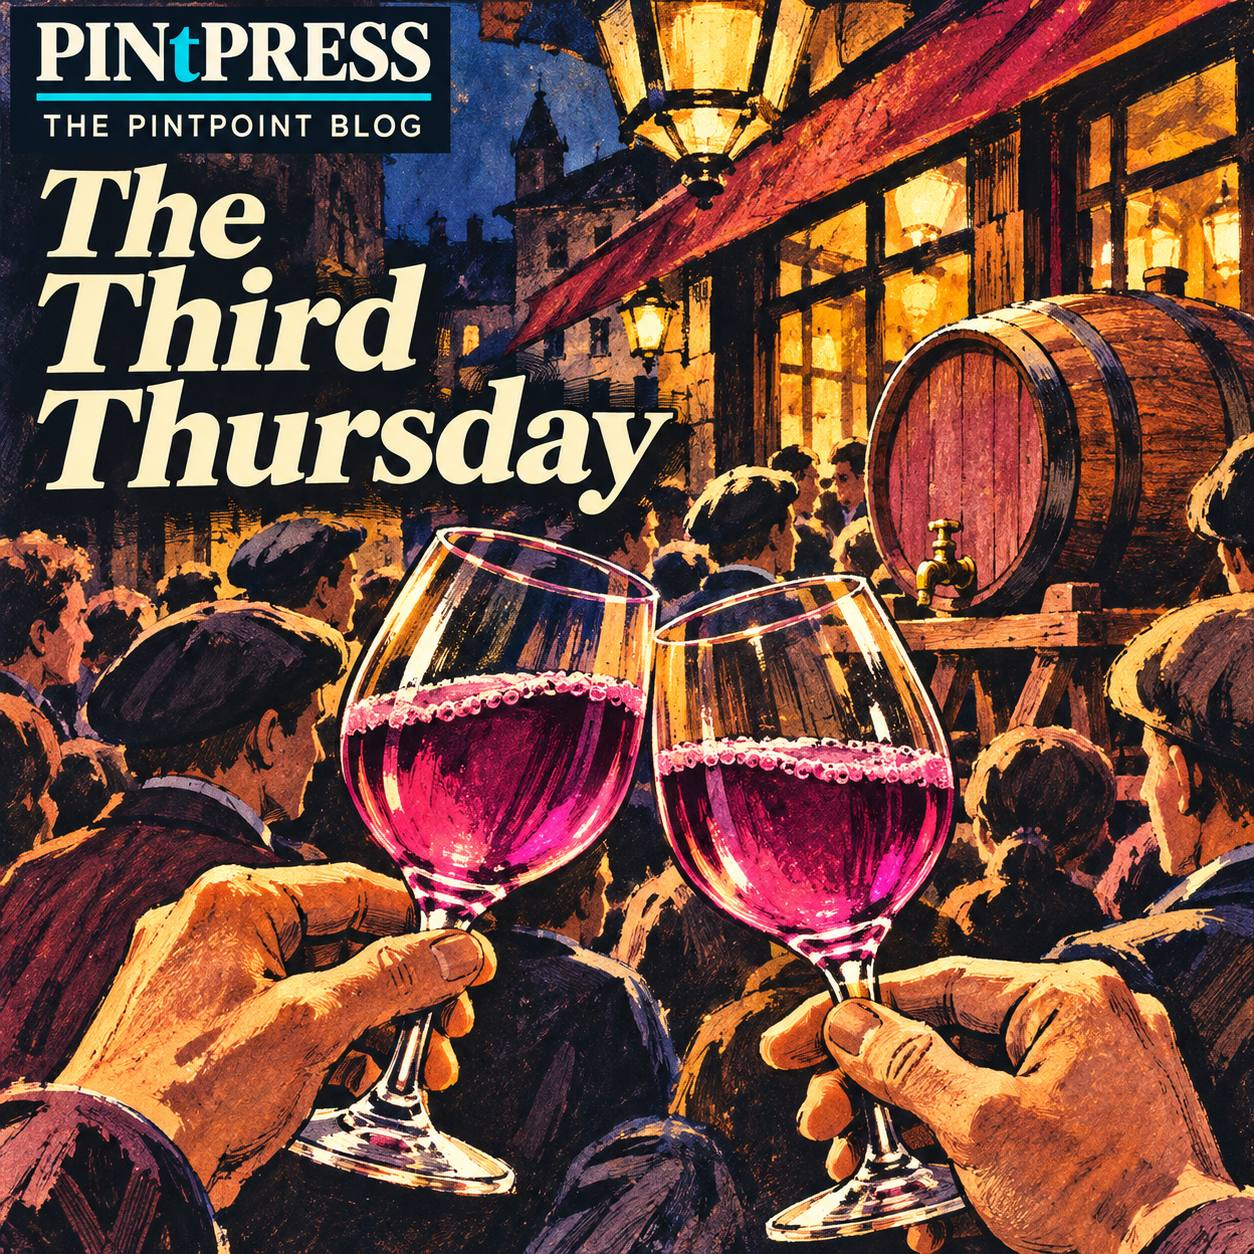
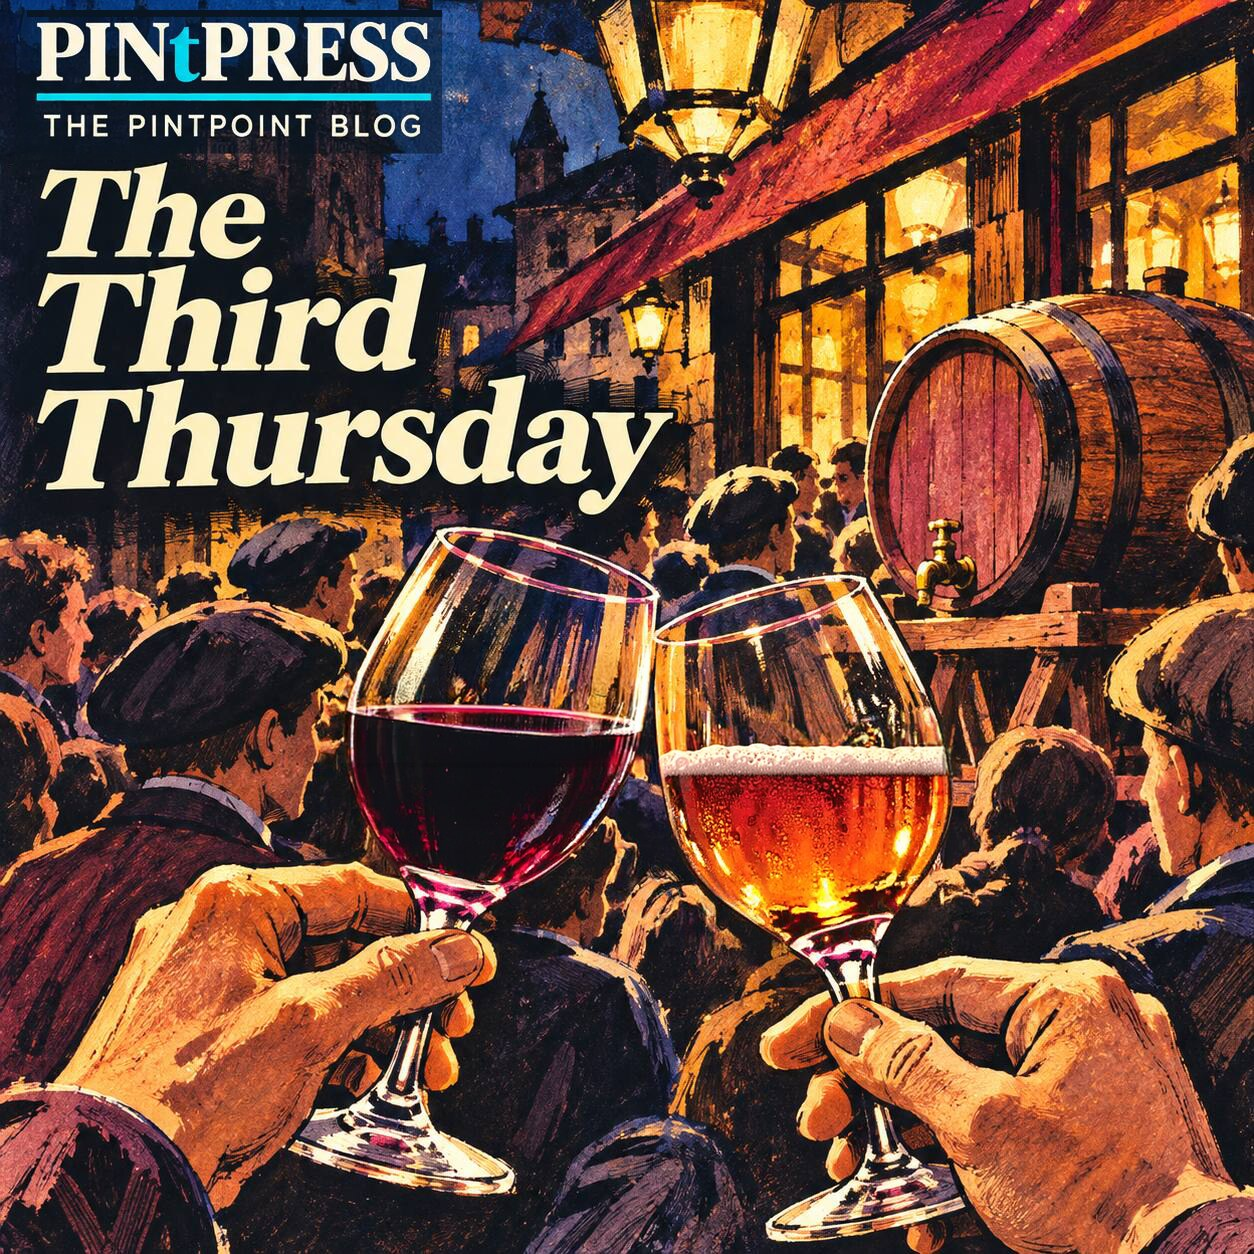
images: new Third Thursday artwork, and alt that matches the card
The square now has a glass of wine and a glass of beer rather than two
of wine. The wide card is rebuilt from it, and its alt text describes
what the card actually shows rather than what the square shows.

diff --git a/blog/drafts/the-third-thursday.html b/blog/drafts/the-third-thursday.html
@@ -17,7 +17,7 @@
   <meta property="og:image:height" content="628" />
   <meta property="og:image:type" content="image/jpeg" />
   <meta property="og:image" content="https://pintpoint.co.uk/blog/images/the-third-thursday-x.jpg" />
-  <meta property="og:image:alt" content="PINtPRESS card: a painted night scene outside a lamplit bar, a broached barrel with a brass tap on a trestle, two glasses of red wine in the foreground and a crowd in flat caps under hanging lanterns, with the headline The Third Thursday down the left." />
+  <meta property="og:image:alt" content="PINtPRESS card: a painted night scene outside a lamplit bar, a broached barrel with a brass tap on a trestle, a crowd in flat caps under hanging lanterns and the tops of two raised glasses along the bottom edge, with the headline The Third Thursday down the left." />
   <meta name="twitter:card" content="summary_large_image" />
   <meta name="twitter:image" content="https://pintpoint.co.uk/blog/images/the-third-thursday-x.jpg" />
   <link rel="preconnect" href="https://fonts.googleapis.com" />
